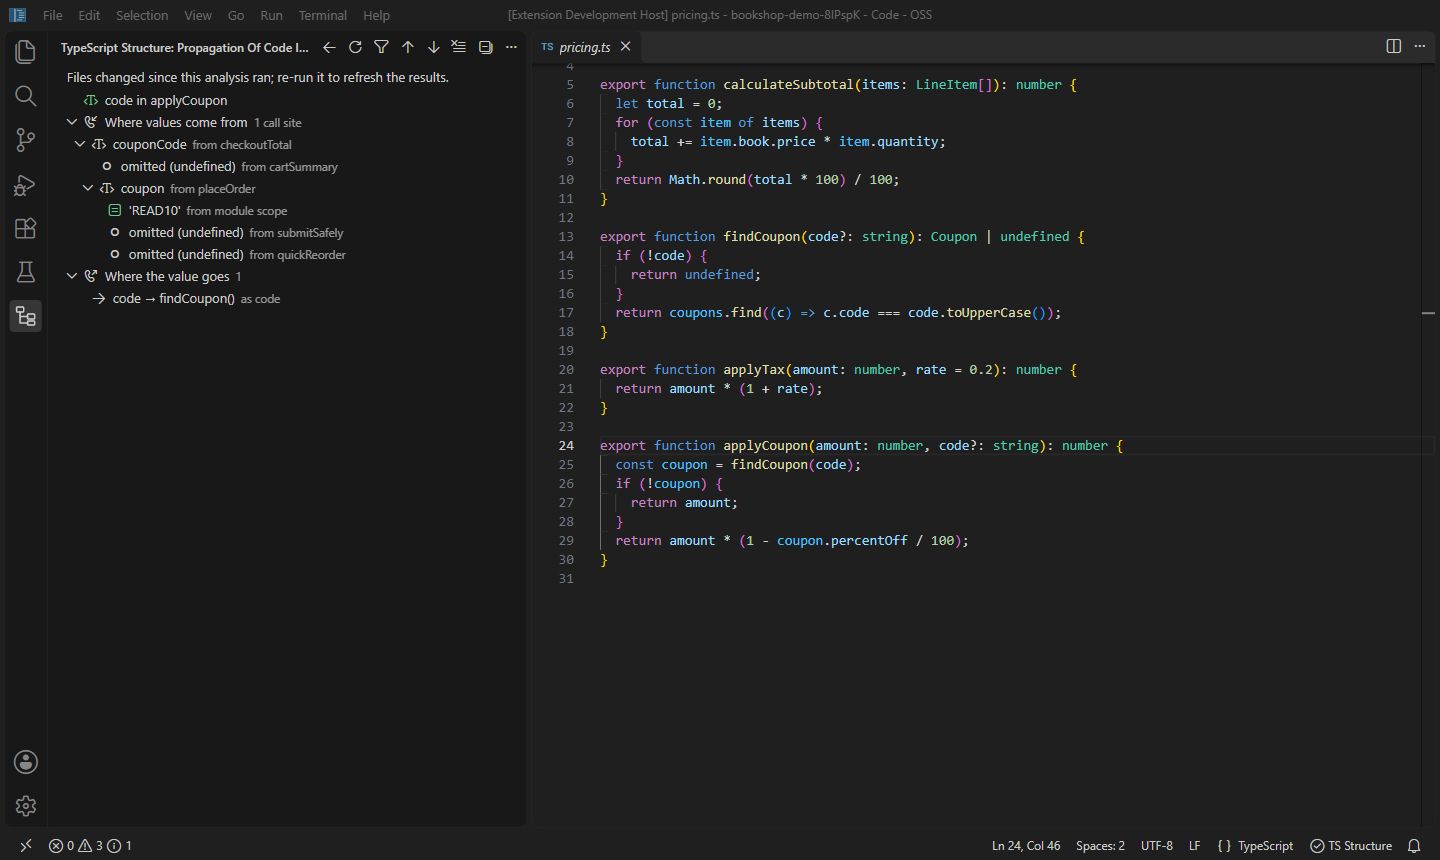
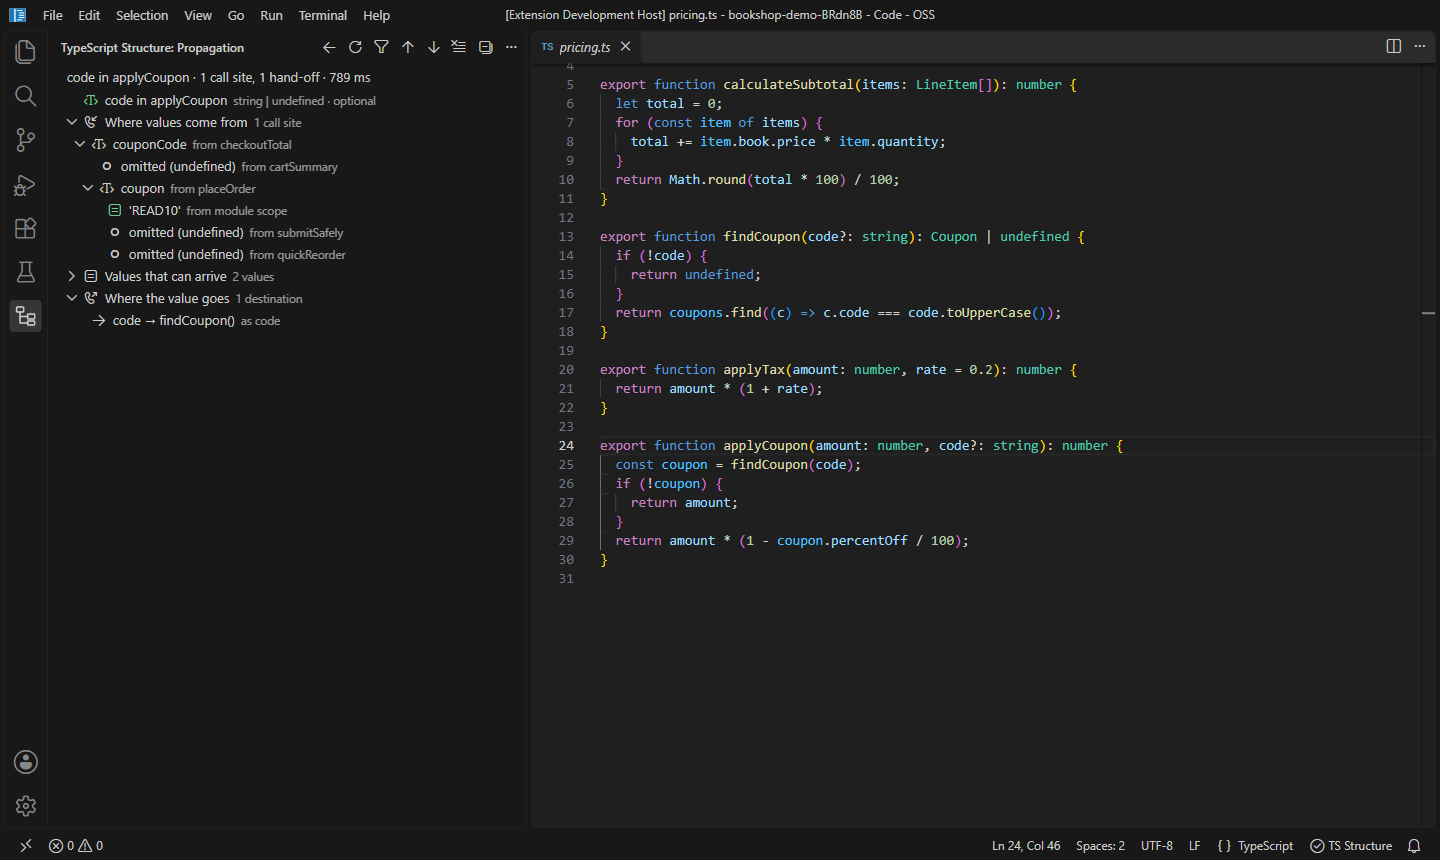
Refresh all screenshots; release 0.8.0
Every guide's screenshot is recaptured with npm run screenshots, so they show this round's improvements. The screenshot repo keeps LF line endings, so restoring files after the Graph Diff scene no longer marks later reports stale. README: corrected Dead Exports image text, and the screenshots command under Development.

diff --git a/scripts/screenshots.js b/scripts/screenshots.js
@@ -17,6 +17,8 @@ const workspace = fs.mkdtempSync(path.join(os.tmpdir(), 'bookshop-demo-'));
 fs.cpSync(path.join(root, 'docs', 'demo'), workspace, { recursive: true });
 const git = (...args) => execFileSync('git', args, { cwd: workspace, stdio: 'ignore' });
 git('init', '-q');
+// Keep the demo's line endings on checkout, so restoring files after a scene doesn't change them.
+git('config', 'core.autocrlf', 'false');
 git('add', '.');
 git('-c', 'user.name=demo', '-c', 'user.email=demo@example.com', 'commit', '-q', '-m', 'Demo project');
 

diff --git a/README.md b/README.md
@@ -359,7 +359,7 @@ Every analysis can be started three ways: from the editor's right-click menu und
 
 ### Dead Export Analyzer
 
-![Dead exports in the demo: legacy.ts is unreachable, ten exports in six files are unused, and eleven are only used inside their own module](docs/images/dead-exports.png)
+![Dead exports in the demo: legacy.ts and reports.ts are unreachable, and unused exports are listed per file with their kind and the barrel that still re-exports them](docs/images/dead-exports.png)
 
 1. Open any file in the project and run **Dead Export Analyzer**. The whole project is analyzed.
 2. Check **Entry points** at the bottom. The analyzer starts from the files named in `package.json` (`main`, `module`, `exports`, `bin`, here `src/main.ts`) and from test files. Without those it falls back to `src/index.ts`, `src/main.ts` and similar. Set `tsStructure.deadExports.entryPoints` (globs) if the guess is wrong.
@@ -584,6 +584,7 @@ Press F5 to open the `sample` project. In `src/impactSource.ts`, place the curso
 npm install
 npm test                  # compile and run the analyzer tests
 VSCODE_EXECUTABLE="/path/to/Code.exe" npm run test:integration   # run inside a real VS Code
+VSCODE_EXECUTABLE="/path/to/Code.exe" npm run screenshots        # recapture docs/images from docs/demo
 ```
 
 - The engine has no `vscode` dependency and is unit-tested directly:
